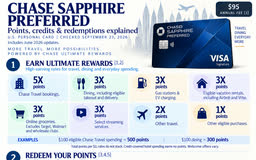
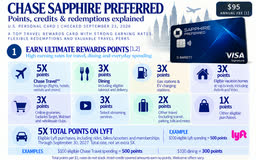
feat(cards): update the Sapphire Preferred infographic
The earlier Sapphire Preferred image left out 5X on Lyft. The updated one
adds it: 5X total points on eligible Lyft purchases, including rides,
bikes and scooters and memberships, through September 30, 2027.

The text version was re-transcribed from the new image by one agent and
re-read against it by an independent verifier. Every figure was checked
against Chase's product page and its June 15, 2026 update and matches:
the $95 fee, the 5X/3X/2X/1X earning grid, 1 cent cash back with Points
Boost up to 1.5 cents, the $100 hotel and $120 screening credits,
DashPass, Apple TV, the protections, Hyatt at 4:3 and the ending 10%
anniversary bonus. The only remaining gap is 5X on Peloton, which the
image does not mention.

An intermediate version of this image carried an outdated 60,000-point
offer and the retired fixed 1.25 cents per point, and was not used.

diff --git a/internal/web/cardinfographics.go b/internal/web/cardinfographics.go
@@ -95,16 +95,16 @@ var cardInfographics = map[string]cardInfographic{
 	"chase-sapphire-preferred": {
 		Alt:     "Chase Sapphire Preferred infographic: annual fee, points earning, redemption values, credits and travel protections. The text version below lists every figure.",
 		Checked: "Sep 23, 2026",
-		Facts:   []string{"$95", "5x", "$10,000", "$20,000", "10%"},
+		Facts:   []string{"$95", "5x", "September 30, 2027", "$10,000", "$20,000", "10% anniversary"},
 		Text: []string{
-			"Annual fee: $95. U.S. personal card, including June 2026 updates; figures checked September 23, 2026.",
-			"Earn Ultimate Rewards: 5X points on Chase Travel bookings; 3X on dining, including eligible takeout and delivery; 3X at gas stations and on EV charging; 3X on eligible vacation rentals, including Airbnb and Vrbo; 3X on online groceries, excluding Target, Walmart and wholesale clubs; 3X on select streaming services; 2X on other travel; 1X on other eligible purchases. Example: $100 of eligible Chase Travel spending earns 500 points, and $100 on dining earns 300 points. Rates are total points per $1 and do not stack. Credit-covered hotel spending earns no points. Welcome offers vary.",
-			"Redeem your points: cash back at 1 point = 1 cent (10,000 points = $100), as a statement credit or an eligible Chase deposit; Chase Travel, where Points Boost offers add value on selected hotels and flights, for example at 1.5 cents a point (10,000 points = $150), though offers vary, so check the quote; or transfer to airline and hotel programs, where ratios vary, so confirm award availability and transfer terms before moving points.",
-			"Hyatt transfer change: 1,000 Ultimate Rewards points become 750 Hyatt points (4:3). This applies now for applications on or after June 15, 2026, and starts October 1, 2026 for earlier applicants.",
-			"Credits and subscriptions, separate from points: up to $100 hotel credit each account anniversary year, booked through Chase Travel, and credited spending earns no points; up to $120 screening credit once every 4 years, not annual, for a Global Entry, TSA PreCheck or NEXUS application fee paid with the card; DashPass plus a $10 monthly promo: at least 12 months of DashPass when activated by December 31, 2027, and $10 off one eligible non-restaurant order monthly through December 31, 2027, with no rollover; Apple TV for 1 year when activated by December 31, 2026, with enrollment and subscription terms applying.",
-			"Travel protections: primary rental coverage of up to $60,000 for eligible collision or theft when you pay the full rental with the card and decline the rental company's collision coverage; covered trip cancellation or interruption up to $10,000 per traveler and $20,000 per trip; covered delays over 12 hours or overnight up to $500 per traveler; emergency evacuation up to $100,000 for qualifying medical evacuation and transportation; and no foreign transaction fees. Coverage conditions and exclusions apply.",
-			"10% anniversary bonus ending: not available for applications on or after June 15, 2026. Earlier applicants earn it on eligible purchases through October 1, 2026, and the final bonus points are due by January 31, 2027.",
-			"Important to know: credits require eligible spending and are not cash income. Enrollment, timing and coverage rules apply. Interest and fees can outweigh rewards. Terms may change.",
+			"Annual fee: $95. U.S. personal card; figures checked September 23, 2026.",
+			"Earn Ultimate Rewards points: 5X points on Chase Travel bookings, including flights, hotels, rentals and more; 3X on dining, including eligible takeout and delivery; 3X at gas stations and EV charging stations; 3X on eligible vacation homes at top brands, including Airbnb and Vrbo; 3X on online groceries, excluding Target, Walmart and wholesale clubs; 3X on select streaming services; 2X on other travel, including transit, parking, tolls and more; 1X on other eligible purchases. 5X total points on Lyft: eligible Lyft purchases, including rides, bikes and scooters, and memberships, through September 30, 2027; this is the total rate, not an extra 5X. Examples: $100 of eligible Lyft spending earns 500 points, $100 of eligible Chase Travel spending earns 500 points, and $100 on dining earns 300 points. Rates are total points per $1 and do not stack. Hotel-credit-covered amounts earn no points. Welcome offers vary.",
+			"Redeem your points: cash back at 1 point = 1 cent (10,000 points = $100), as a statement credit or an eligible Chase deposit; Chase Travel, where Points Boost gives higher value on selected hotel and flight offers, for example at 1.5 cents per point (10,000 points = $150), though offers vary, so check the quote; or transfer to participating airline and hotel programs, where ratios vary, so check award availability and transfer terms first.",
+			"Hyatt transfers: 1,000 Ultimate Rewards points become 750 Hyatt points (4:3). This applies to applicants on or after June 15, 2026, and starts October 1, 2026 for earlier applicants.",
+			"Credits and subscriptions, separate from points: up to $100 hotel credit each account-anniversary year when you book hotels through Chase Travel and pay with the card, as an automatic statement credit; credited amounts earn no points, and unused credit does not roll over. Up to $120 screening credit once every four years, not annually, for a Global Entry, TSA PreCheck or NEXUS application fee paid with the card. DashPass plus a $10 monthly promo: complimentary DashPass with activation, and up to $10 off one eligible non-restaurant DoorDash order monthly; this is an in-app promotion, not a statement credit, with no rollover, and eligibility rules apply. Apple TV for 1 year: a complimentary subscription when activated by December 31, 2026; enrollment and subscription terms apply.",
+			"Travel protections: primary rental coverage up to $60,000 for eligible collision or theft when you pay for the full rental with the card and decline the rental company's collision coverage, conditions apply; covered trip cancellation or interruption up to $10,000 per traveler and $20,000 per trip; covered delays over 12 hours or overnight up to $500 per traveler; emergency evacuation up to $100,000 for qualifying medical evacuation and transportation, conditions and exclusions apply. No foreign transaction fees.",
+			"10% anniversary bonus ending: not available for applications on or after June 15, 2026. Earlier applicants earn it on eligible purchases through October 1, 2026, with the final bonus by January 31, 2027.",
+			"Important to know: credits reimburse eligible spending and are not cash income. Enrollment, timing and coverage rules apply. Interest and fees can outweigh rewards. Terms may change. Sources: Chase Sapphire Preferred product and offer terms, Chase Sapphire Preferred benefits, Chase's June 15, 2026 update and Chase's $100 hotel-credit guide; official sources are chase.com, creditcards.chase.com and media.chase.com, checked September 23, 2026.",
 		},
 	},
 	"citi-strata-elite": {
